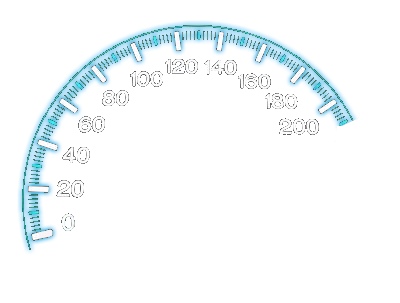
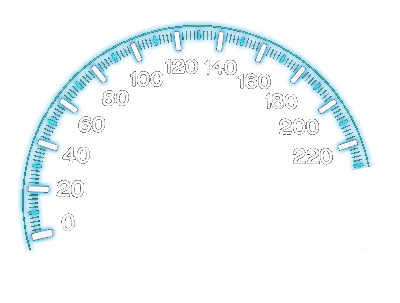
Speedometer UI hotfix

Changed region(s): [[0.72, 0.3861, 0.93, 0.5644]]

diff --git a/Assets/Scripts/speedometer.cs b/Assets/Scripts/speedometer.cs
@@ -17,7 +17,7 @@ public class speedometer : MonoBehaviour
     {
         maxSpeed = PlayerPrefs.GetFloat("topSpeed")+20;
         minSpeedArrowAngle = 13.26f;
-        maxSpeedArrowAngle = (maxSpeed * -151f)/200;
+        maxSpeedArrowAngle = (maxSpeed * -166f)/220;
     }
 
     
